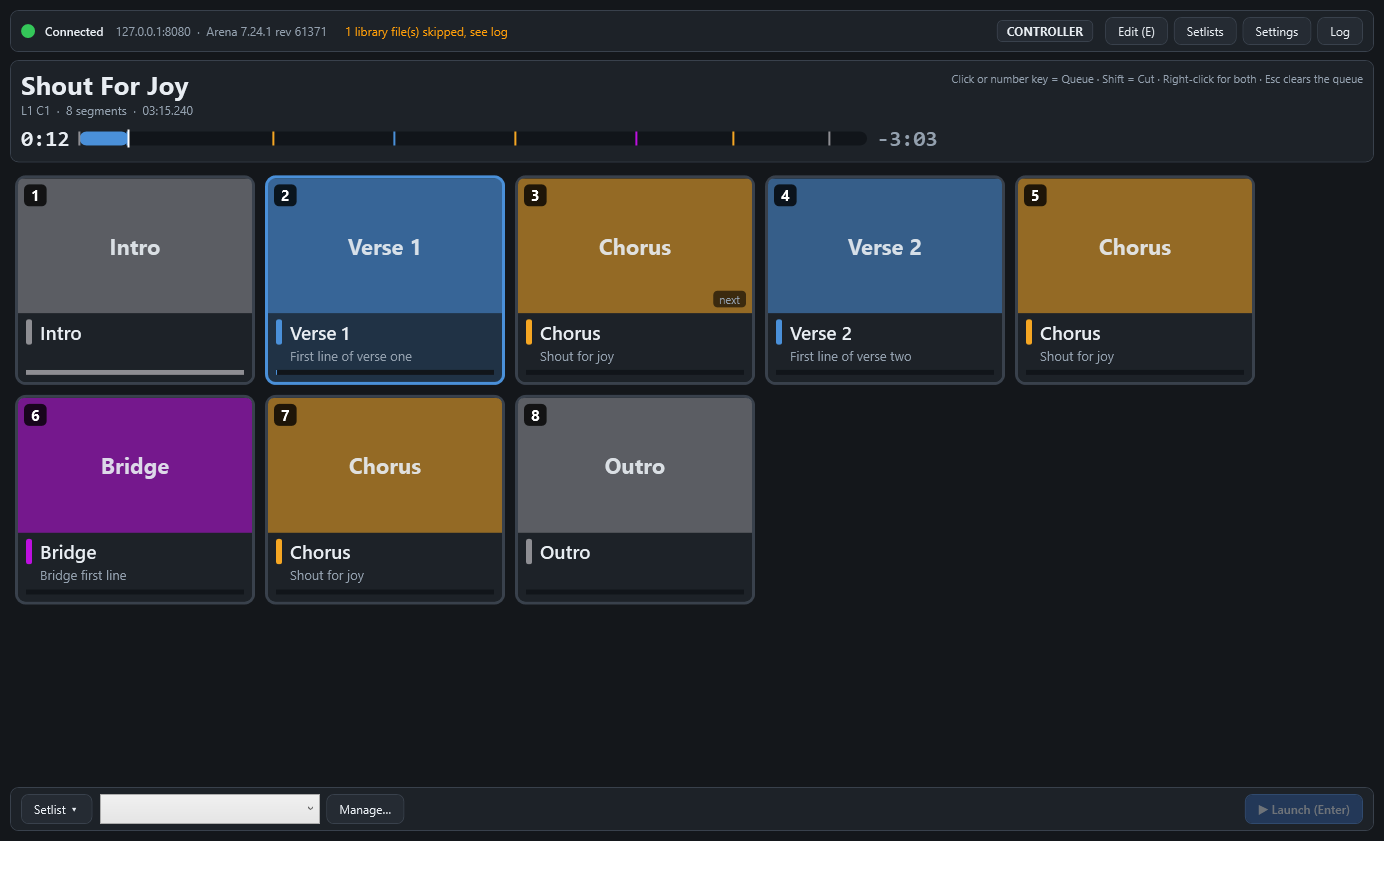
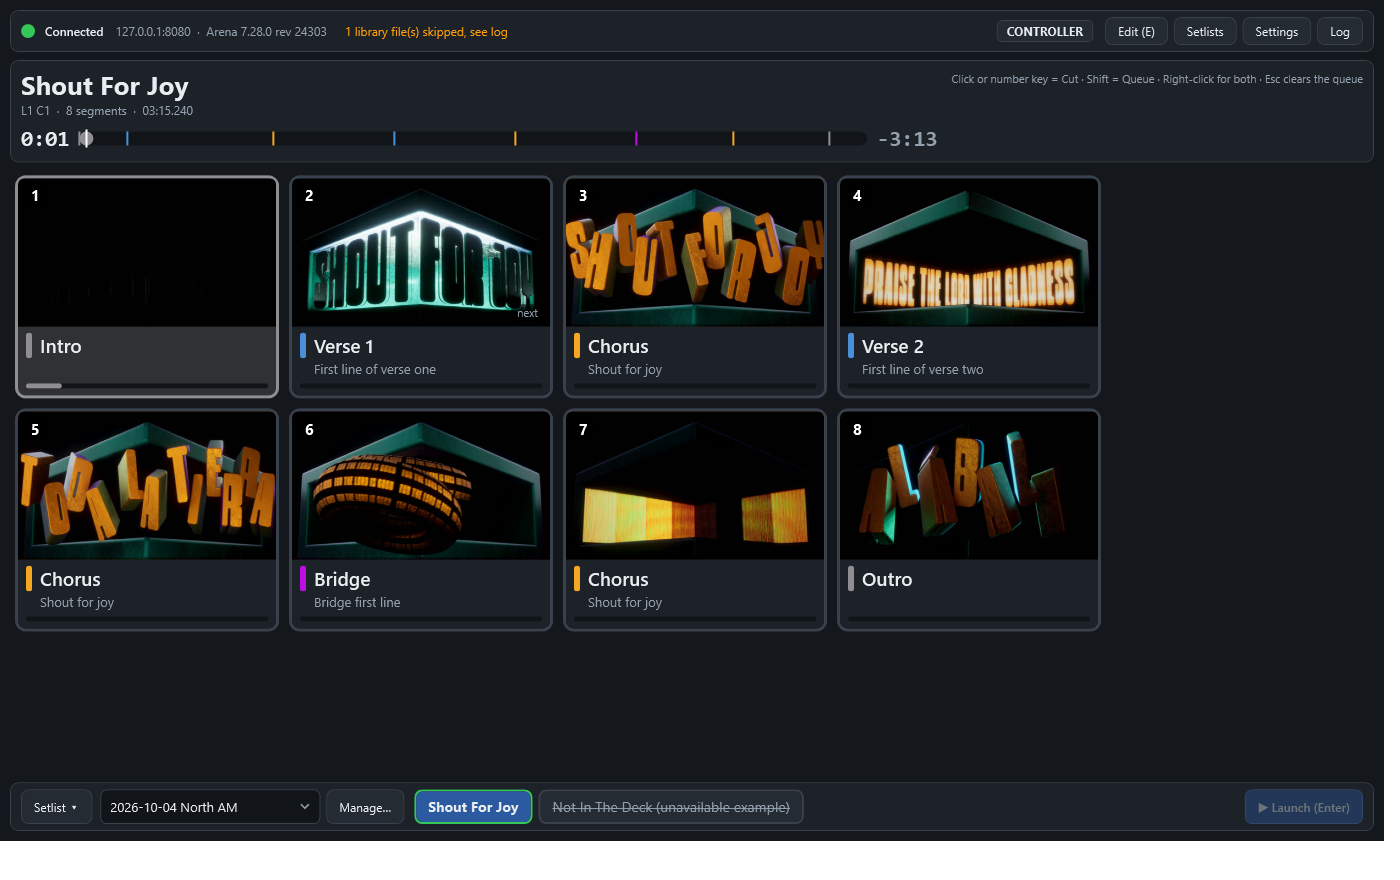
Render thumbnails for the sample song; Render thumbnails button in Edit mode; cards refresh after a library rescan

diff --git a/src/SegmentDeck.App/Views/EditView.xaml b/src/SegmentDeck.App/Views/EditView.xaml
@@ -187,6 +187,8 @@
                     <DockPanel Margin="0,6,0,0">
                         <Button DockPanel.Dock="Right" Content="Delete song" Style="{StaticResource DangerButton}" MinHeight="30" FontSize="12" Command="{Binding DeleteSongCommand}"/>
                         <Button DockPanel.Dock="Right" Content="Save (Ctrl+S)" Style="{StaticResource PrimaryButton}" MinWidth="140" Margin="0,0,8,0" Command="{Binding SaveCommand}"/>
+                        <Button DockPanel.Dock="Right" Content="Render thumbnails" Style="{StaticResource SmallButton}" MinHeight="30" Margin="0,0,8,0" Command="{Binding RenderThumbnailsCommand}"
+                                ToolTip="Renders the first frame of every segment that has no thumbnail or whose start time changed"/>
                         <TextBlock Text="{Binding SaveStatusText}" Foreground="{StaticResource MutedBrush}" VerticalAlignment="Center" TextTrimming="CharacterEllipsis"/>
                     </DockPanel>
                 </StackPanel>

diff --git a/src/SegmentDeck.App/ViewModels/EditViewModel.cs b/src/SegmentDeck.App/ViewModels/EditViewModel.cs
@@ -523,6 +523,17 @@ public partial class EditViewModel : ObservableObject
         SaveStatusText = failed == 0 ? $"Saved · {done} thumbnail(s) rendered" : $"Saved · {done} thumbnail(s) rendered, {failed} failed (see log)";
     }
 
+    /// <summary>For songs saved before ffmpeg was set up, or after the media file moved: render every missing or stale thumbnail.</summary>
+    [RelayCommand]
+    private async Task RenderThumbnailsAsync()
+    {
+        if (_song is null) return;
+        if (IsDirty || _isNew) { await SaveAsync(); return; }
+        foreach (var s in Segments) s.RefreshThumb(_services.Library);
+        if (!Segments.Any(s => s.ThumbNeedsUpdate)) { SaveStatusText = "All thumbnails are up to date"; return; }
+        await GenerateThumbnailsAsync(_song);
+    }
+
     [RelayCommand]
     private void DeleteSong()
     {

diff --git a/src/SegmentDeck.App/ViewModels/ShowViewModel.cs b/src/SegmentDeck.App/ViewModels/ShowViewModel.cs
@@ -118,8 +118,9 @@ public partial class ShowViewModel : ObservableObject
         var clip = conn.WatchedClip;
         var song = _services.CurrentSong;
 
-        if (song is null || song.Id != _songIdShown) BuildSong(song, clip);
-        else if (clip is not null && !ReferenceEquals(_song, song)) { _song = song; }
+        // Rebuild when the song changes, and also when the library handed us a fresh copy of the same song
+        // (a rescan after an edit, or thumbnails rendered), so the cards pick up new thumbnails and notes.
+        if (song is null || song.Id != _songIdShown || !ReferenceEquals(_song, song)) BuildSong(song, clip);
 
         IsUnknownClip = song is null && clip is not null && clip.IsConnected;
         UnknownClipName = clip?.Name ?? "";
